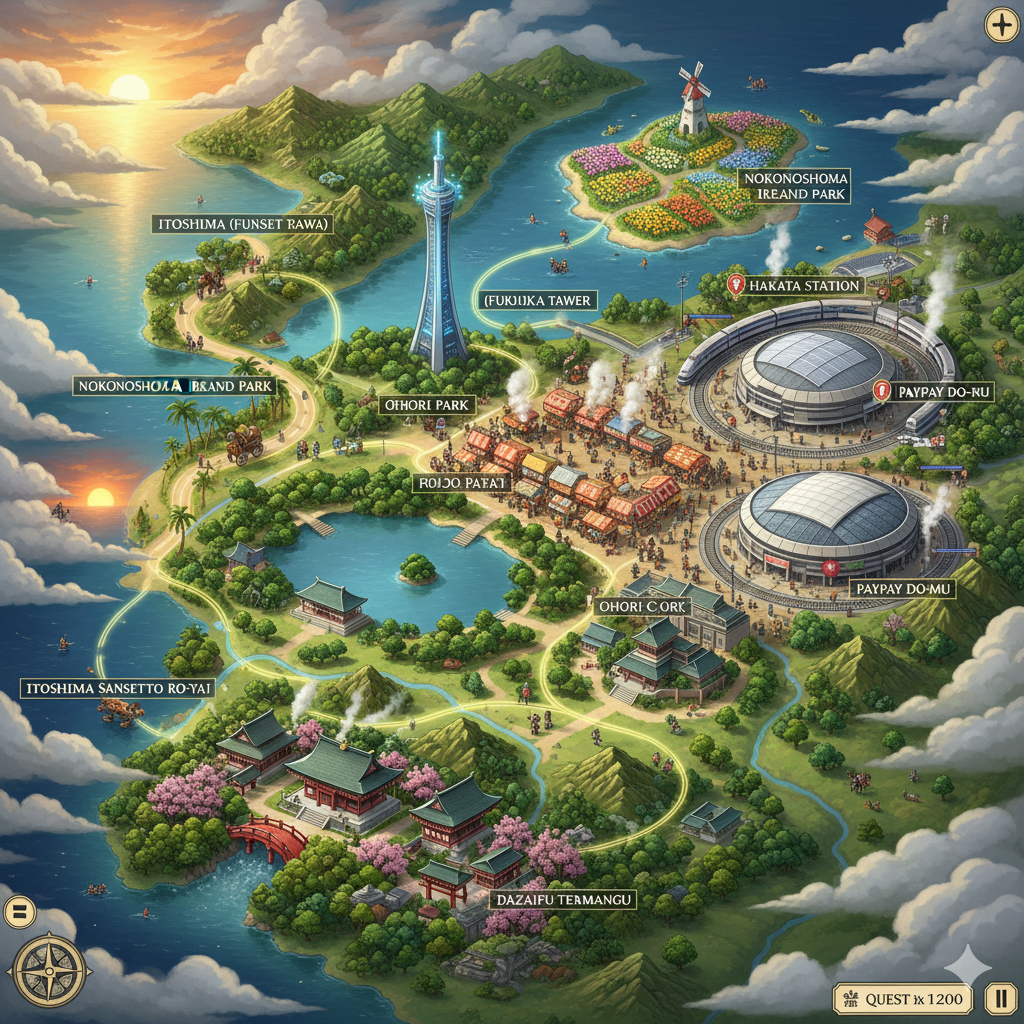
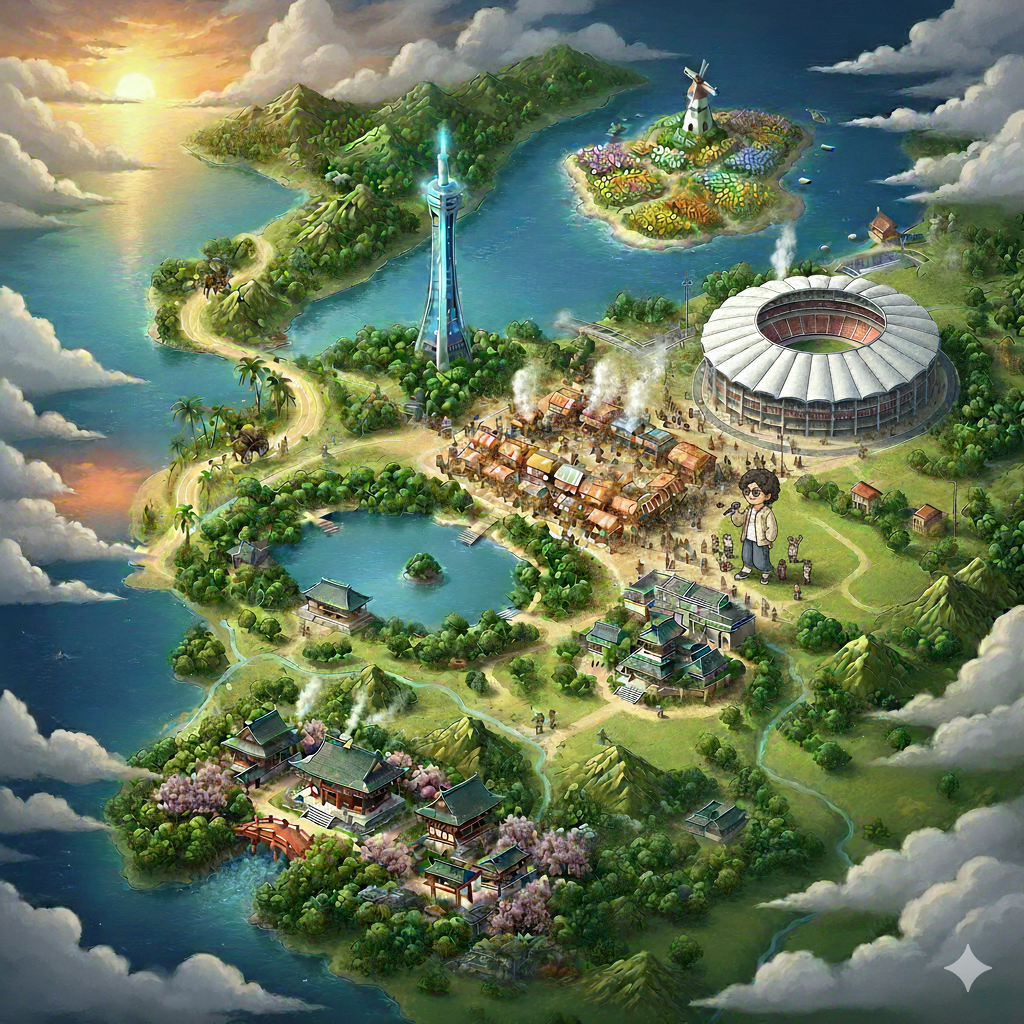
スポット追加の段階

diff --git a/src/scenes/GameScene.js b/src/scenes/GameScene.js
@@ -8,18 +8,14 @@ export class GameScene extends Phaser.Scene {
 
     preload() {
         this.load.image('map', './assets/fukuoka_map_1.png');
-        
-        // アニメーションに使う2枚の画像を個別に読み込みます
         this.load.image('player_stand', './assets/player_icon_1_shadow.png');
         this.load.image('player_walk', './assets/player_icon_2_shadow.png');
     }
 
     create() {
-        // --- 背景の作成 ---
         const map = this.add.image(400, 300, 'map');
         map.setDisplaySize(800, 600);
 
-        // --- 観光スポットの作成 ---
         this.spotObjects = this.physics.add.staticGroup();
         spots.forEach(spot => {
             const spotObject = this.spotObjects.create(spot.x + spot.width / 2, spot.y + spot.height / 2, null)
@@ -28,45 +24,29 @@ export class GameScene extends Phaser.Scene {
             spotObject.reward = spot.reward;
         });
 
-        // ★★★【変更点】プレイヤーを作成する前に、アニメーションを定義する ★★★
-        // これにより、アニメーションとサイズ変更の処理が衝突するのを防ぎます。
         this.anims.create({
             key: 'stand',
             frames: [ { key: 'player_stand' } ],
-            frameRate: 1
         });
         this.anims.create({
             key: 'walk',
-            // 2枚の画像を交互に表示するアニメーション
-            frames: [
-                { key: 'player_stand' },
-                { key: 'player_walk' }
-            ],
-            frameRate: 4, // 1秒間に4回画像を切り替える
-            repeat: -1    // 無限に繰り返す
+            frames: [ { key: 'player_stand' }, { key: 'player_walk' } ],
+            frameRate: 4,
+            repeat: -1
         });
 
-
-        // --- プレイヤーの作成 ---
-        // 立ち姿の画像('player_stand')でプレイヤーを作成
         this.player = this.physics.add.sprite(400, 300, 'player_stand');
-        this.player.setDisplaySize(96, 96); // サイズを指定
+        this.player.setDisplaySize(96, 96);
         this.player.setCollideWorldBounds(true);
 
-
-        // --- 入力設定 ---
         this.cursors = this.input.keyboard.createCursorKeys();
         this.keys = this.input.keyboard.addKeys('W,A,S,D');
-        this.setupButtonEvents(); // 画面のボタンを有効化
+        this.setupButtonEvents();
 
-        // --- 当たり判定 ---
         this.physics.add.overlap(this.player, this.spotObjects, this.onSpotOverlap, null, this);
-        
-        // --- UIの更新 ---
         this.updateItemBox();
     }
 
-    // (update関数や他の関数に変更はありません)
     update() {
         const speed = 200;
         let velocityX = 0;
@@ -96,6 +76,7 @@ export class GameScene extends Phaser.Scene {
         }
     }
 
+    // (setupButtonEvents 以降の関数は変更ありません)
     setupButtonEvents() {
         const buttonMapping = { 'btn-up': 'up', 'btn-down': 'down', 'btn-left': 'left', 'btn-right': 'right' };
         for (const [buttonId, direction] of Object.entries(buttonMapping)) {

diff --git a/src/scenes/QuizScene.js b/src/scenes/QuizScene.js
@@ -1,5 +1,23 @@
 import { quizzes } from '../data/quizzes.js';
 
+/**
+ * スコアを保存する
+ * @param {string} playerName - スコアを保存するプレイヤー名
+ * @param {number} points - 加算するポイント
+ * @returns {number} - 更新後の合計スコア
+ */
+
+function saveScore(playerName, points) {
+    // ローカルストレージから全スコアを取得
+    const scores = JSON.parse(localStorage.getItem('gameScores')) || {};
+    // 現在のプレイヤーのスコアにポイントを加算
+    scores[playerName] = (scores[playerName] || 0) + points;
+    // 全スコアを保存
+    localStorage.setItem('gameScores', JSON.stringify(scores));
+    // 更新後のスコアを返す
+    return scores[playerName];
+}
+
 export class QuizScene extends Phaser.Scene {
     constructor() {
         super({ key: 'QuizScene' });
@@ -36,15 +54,32 @@ export class QuizScene extends Phaser.Scene {
 
     checkAnswer(selectedChoice, correctAnswer) {
         const gameScene = this.scene.get('GameScene');
+        const currentPlayer = sessionStorage.getItem('currentPlayer');
+        let resultText = '';
+
         if (selectedChoice === correctAnswer) {
-            // 正解の場合、GameSceneのaddItemを呼び出す
-            gameScene.addItem(this.reward);
-        } else {
-            alert('残念、不正解です...');
-        }
+            // --- 正解の場合 ---
+            resultText = '正解！ 🎉\n1ポイント獲得！';
+            gameScene.addItem(this.reward); // アイテムを追加
         
-        // GameSceneを再開し、このクイズシーンは終了する
-        this.scene.resume('GameScene');
-        this.scene.stop();
+            if (currentPlayer) {
+                const newScore = saveScore(currentPlayer, 1); // ★スコアを+1して保存
+                // HTMLのスコア表示を更新
+                document.getElementById('current-score').textContent = newScore;
+            }
+        } else {
+            // --- 不正解の場合 ---
+            resultText = `残念、不正解...\n正解は「${correctAnswer}」でした。`;
+            // スコアは+0なので何もしない
+        }
+    
+        // 結果を表示
+        this.add.text(400, 300, resultText, { fontSize: '32px', fill: '#fff', align: 'center' }).setOrigin(0.5);
+
+        // 2秒後にゲーム画面に戻る
+        this.time.delayedCall(2000, () => {
+            this.scene.resume('GameScene');
+            this.scene.stop();
+        });
     }
 }

diff --git a/src/data/spots.js b/src/data/spots.js
@@ -4,7 +4,7 @@ export const spots = [
     {
         name: '太宰府天満宮',
         x: 350,
-        y: 450,
+        y: 760,
         width: 100,
         height: 100,
         url: 'https://www.dazaifutenmangu.or.jp/',
@@ -21,12 +21,21 @@ export const spots = [
     },
     {
         name: '福岡タワー',
-        x: 200,
-        y: 150,
+        x: 380,
+        y: 340,
         width: 50,
-        height: 50,
+        height: 100,
         url: 'https://www.fukuokatower.co.jp/',
         reward: '明太子'
+    },
+    {
+        name: 'PayPayドーム',
+        x: 770, // 左からの位置
+        y: 370, // 上からの位置
+        width: 100,
+        height: 100,
+        url: 'https://example.com/', // テスト用のURL
+        reward: 'デバッグ成功！'
     },
     {
         name: 'キャナルシティ博多',
@@ -41,6 +50,15 @@ export const spots = [
         name: 'テストエリア',
         x: 10, // 左からの位置
         y: 490, // 上からの位置
+        width: 100,
+        height: 100,
+        url: 'https://example.com/', // テスト用のURL
+        reward: 'デバッグ成功！'
+    },
+    {
+        name: '中州屋台',
+        x: 540, // 左からの位置
+        y: 500, // 上からの位置
         width: 100,
         height: 100,
         url: 'https://example.com/', // テスト用のURL

diff --git a/src/data/quizzes.js b/src/data/quizzes.js
@@ -29,7 +29,15 @@ export const quizzes = {
         choices: ["A", "B", "C", "正解"],
         correctAnswer: "正解"
     },
-    'エレン': {
+    'PayPayドーム': {
+        question: "エレンは〇ぬ？",
+        choices: [
+            "はい",
+            "いいえ"
+        ],
+        correctAnswer: "はい"
+    },
+    '中州屋台': {
         question: "エレンは〇ぬ？",
         choices: [
             "はい",
